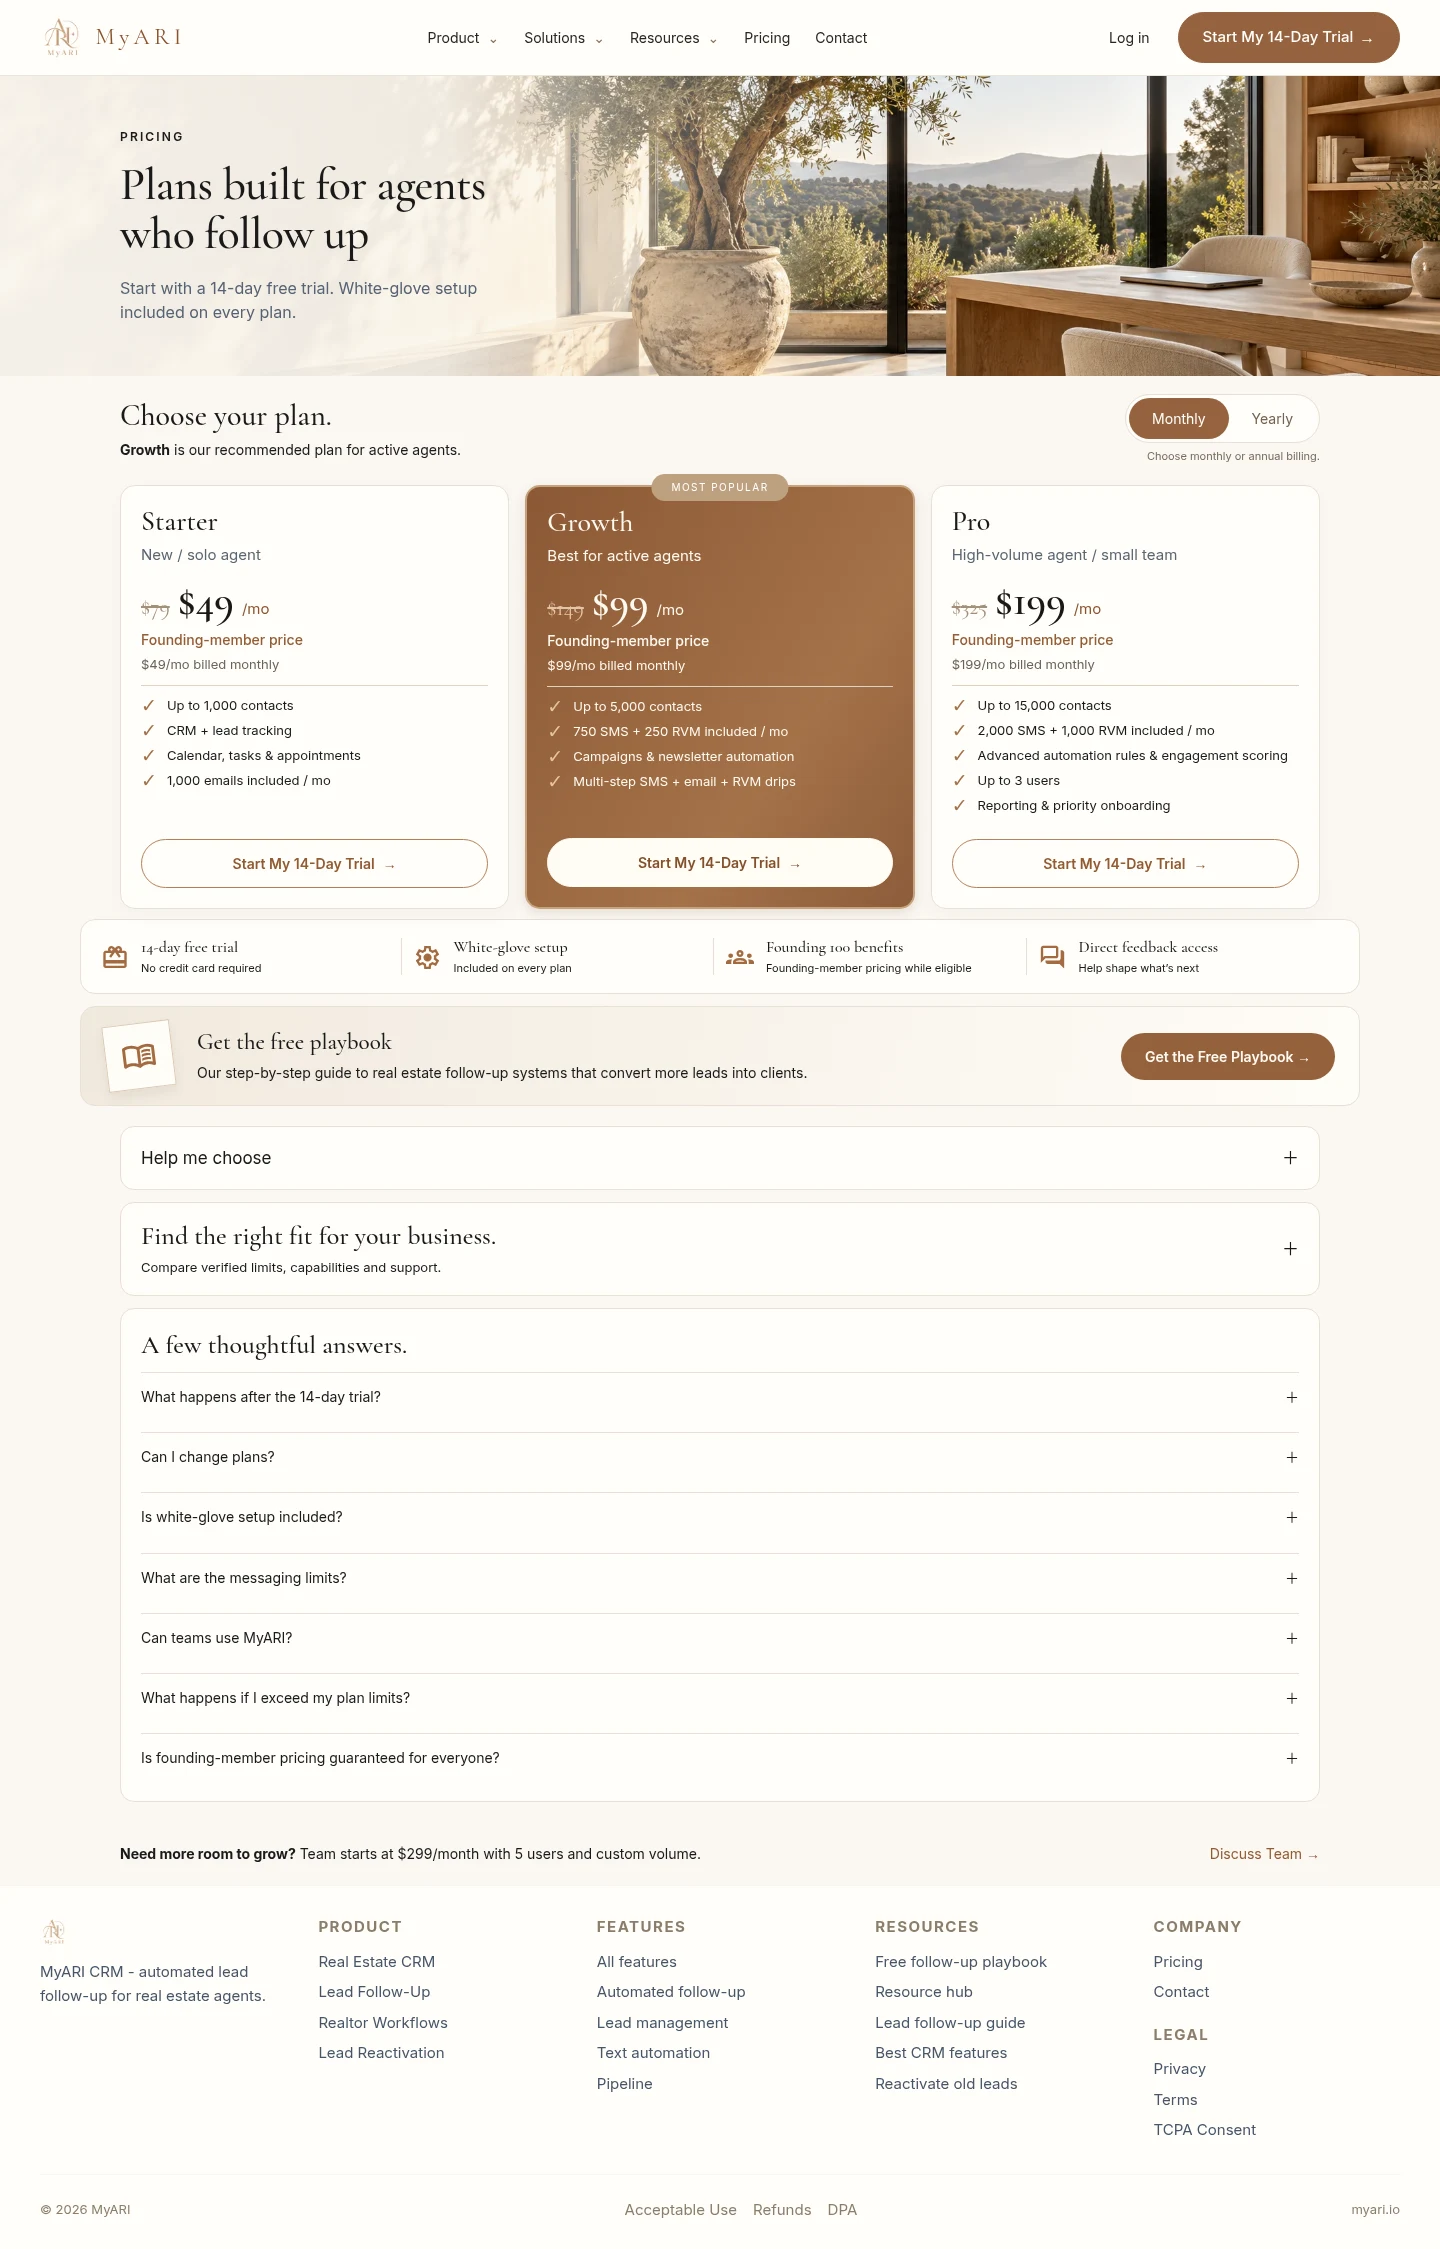
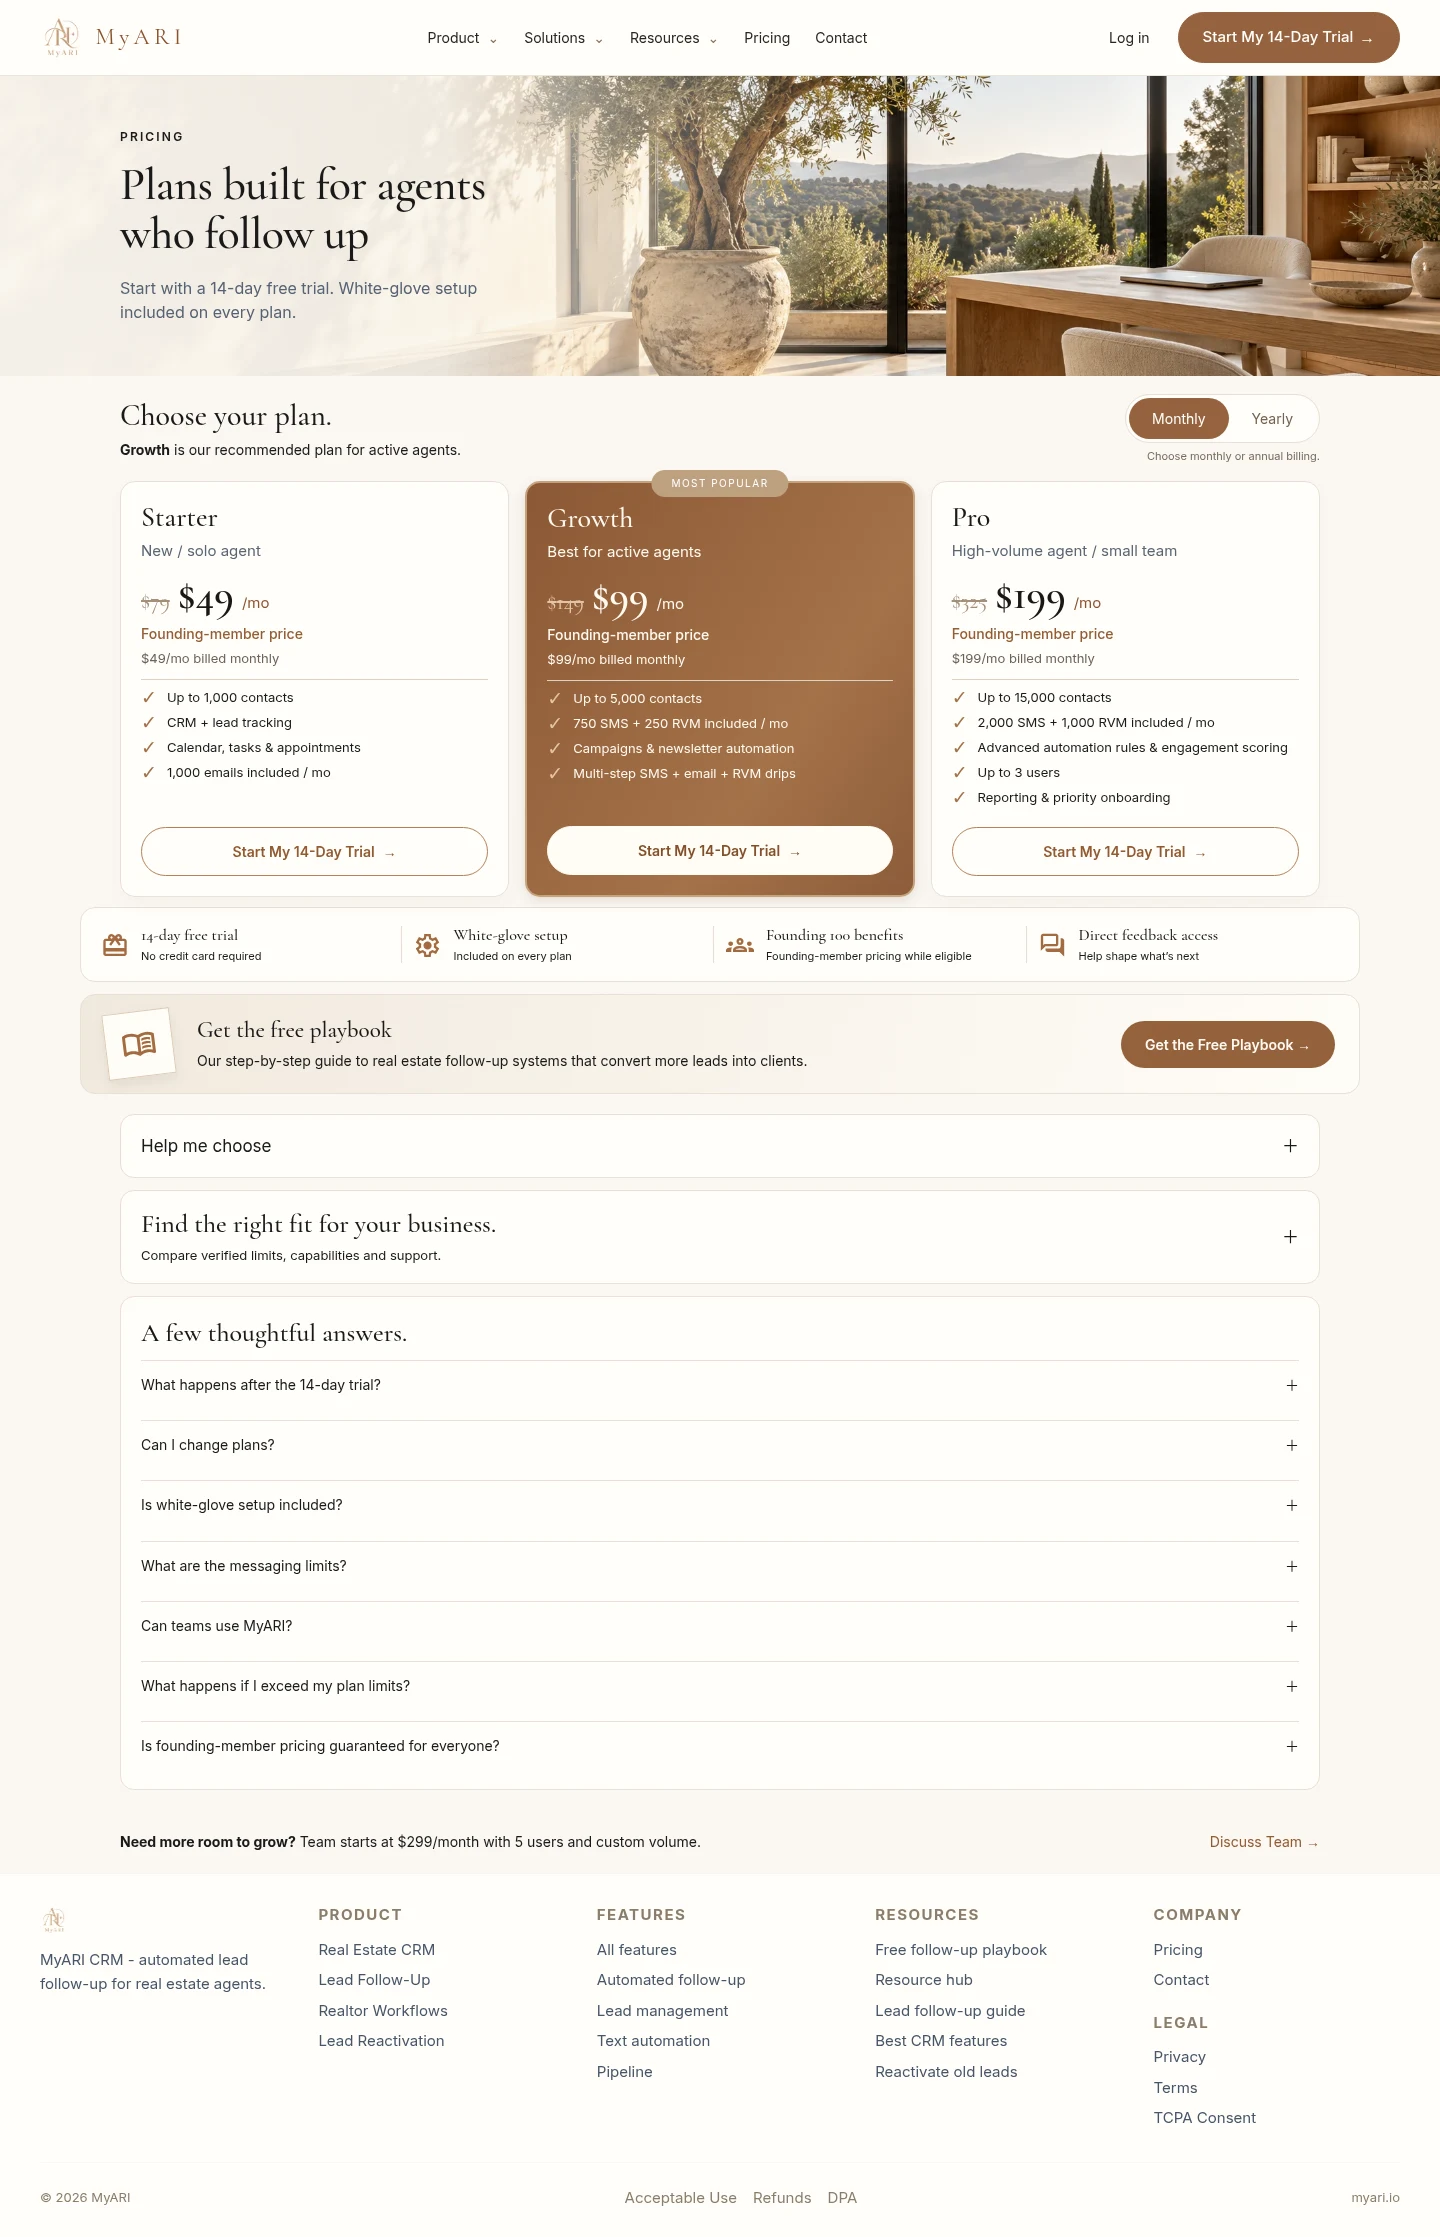
Align tablet pricing headers and tighten comparison spacing

diff --git a/components/marketing/public-site-refinement.css b/components/marketing/public-site-refinement.css
@@ -1767,3 +1767,10 @@
 .public-site .approved-pricing-hero h1 {
   max-width: 430px;
 }
+/* Keep comparison headers aligned at tablet widths and annual CTAs compact. */
+.approved-pricing-intro { margin-bottom:16px; }
+.approved-price { margin-top:10px; }
+.public-site .approved-plan ul { padding-top:8px; margin-bottom:14px; }
+@media (min-width:768px) and (max-width:1000px) {
+  .public-site .public-prose .approved-pricing .approved-plan header { min-height:85px; }
+}
